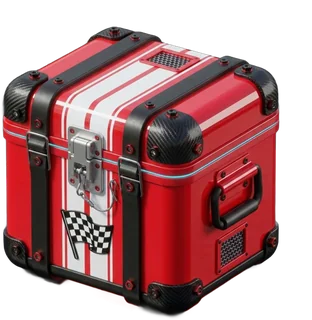
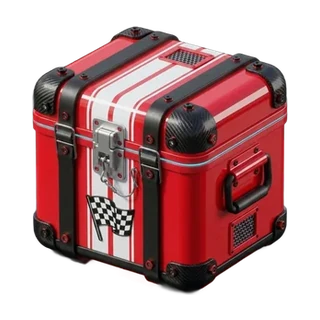
Art audit: case pictures on one square canvas, crisp country flags in the DROP hero
c-sport / c-tuning were shifted left and ~8% bigger than the other crates, c-premium / c-halloween / o-elite / o-sport
were not square (the hero and the reveal changed height between cases): every crate is now centred on 320×320
(closed) or 420×420 (open) at the same scale. A country case's hero showed a blurry ~45 px flag next to 170 px crates;
it is now drawn crisp at crate size until country crate art exists (COUNTRY_ART in s2-ui.js switches to it).

Claude-Session: https://claude.ai/code/session_01YH73bmVKmcSwFykVt1gPrj

diff --git a/public/s2-ui.js b/public/s2-ui.js
@@ -22,7 +22,11 @@ const n0 = (n) => Math.round(n || 0).toLocaleString('uk-UA');
 const CASE_ART = { rust: 'rust', city: 'city', tuning: 'tuning', sport: 'sport', premium: 'premium', elite: 'elite' };
 const CASE_COL = { starter: '#39ff88', rust: '#ff8a3d', city: '#3d8bff', tuning: '#a26bff', sport: '#ff3d5a', premium: '#5ee7f0', elite: '#ffcc33' };
 const CASE_SHORT = { rust: 'Іржавий', city: 'Міський', tuning: 'Тюнінг', sport: 'Спорт', premium: 'Преміум', elite: 'Еліта', starter: 'Стартовий' };
-const caseKey = (cs) => CASE_ART[cs.id] || (/hallow|hw/i.test(cs.id) ? 'halloween' : null);
+// Country crates (art audit 05.11, prompts in the art report): drop s2/case/c-<cc>.webp + o-<cc>.webp (cc = ua, jp, de,
+// it, us, gb, cn) and add the code here, e.g. ['ua', 'jp']; until then the case shows its round flag.
+const COUNTRY_ART = new Set([]);
+const caseKey = (cs) => CASE_ART[cs.id] || (cs.country && COUNTRY_ART.has(cs.country.toLowerCase()) ? cs.country.toLowerCase() : null)
+  || (/hallow|hw/i.test(cs.id) ? 'halloween' : null);
 const caseCol = (cs) => CASE_COL[cs.id] || (cs.country ? '#22c1a5' : clsCol(S.CLASS_ORDER.filter((k) => cs.weights[k]).pop()));
 function caseArt(cs, open = false, cls = '') {
   const k = caseKey(cs);

diff --git a/public/style.css b/public/style.css
@@ -6747,6 +6747,12 @@ body.s2 .s2-parts-go { color: #8a8f98; }
 .lvcap b { color: var(--accent); font-weight: 800; font-variant-numeric: tabular-nums; }
 .lvcap-note { display: flex; align-items: center; justify-content: center; gap: 4px; }
 
+/* art audit 05.11: a country case has no crate picture yet — its flag was a 1.35em circle scaled ×2.4–2.6 (blurry, ~45 px
+   next to 170 px crates). Draw it crisp at crate size with a rim and the crates' shadow until s2/case/c-<cc>.webp exist. */
+.s2-feat-art .s2-cflag, .s2-hero-art .s2-cflag { display: flex; align-items: center; justify-content: center; transform: none; margin: 14px 0; }
+.s2-feat-art .s2-cflag .flag-emb, .s2-hero-art .s2-cflag .flag-emb { width: 116px; height: 116px; vertical-align: 0;
+  box-shadow: 0 0 0 5px #ffffff1c, 0 0 0 6px #0008, 0 20px 26px #000c; }
+
 /* ===== wIntro 2026-10-29: animated intros (public/intro-fx.js). One staged entrance per screen, ≤ 0.9 s, transform and
    opacity only (no filters, no blur); loops are a slow light sweep and a glow pulse. Every keyframe ends on the element's
    own resting style (fill: backwards), so :active and later transforms still work. prefers-reduced-motion: all still. --- */
